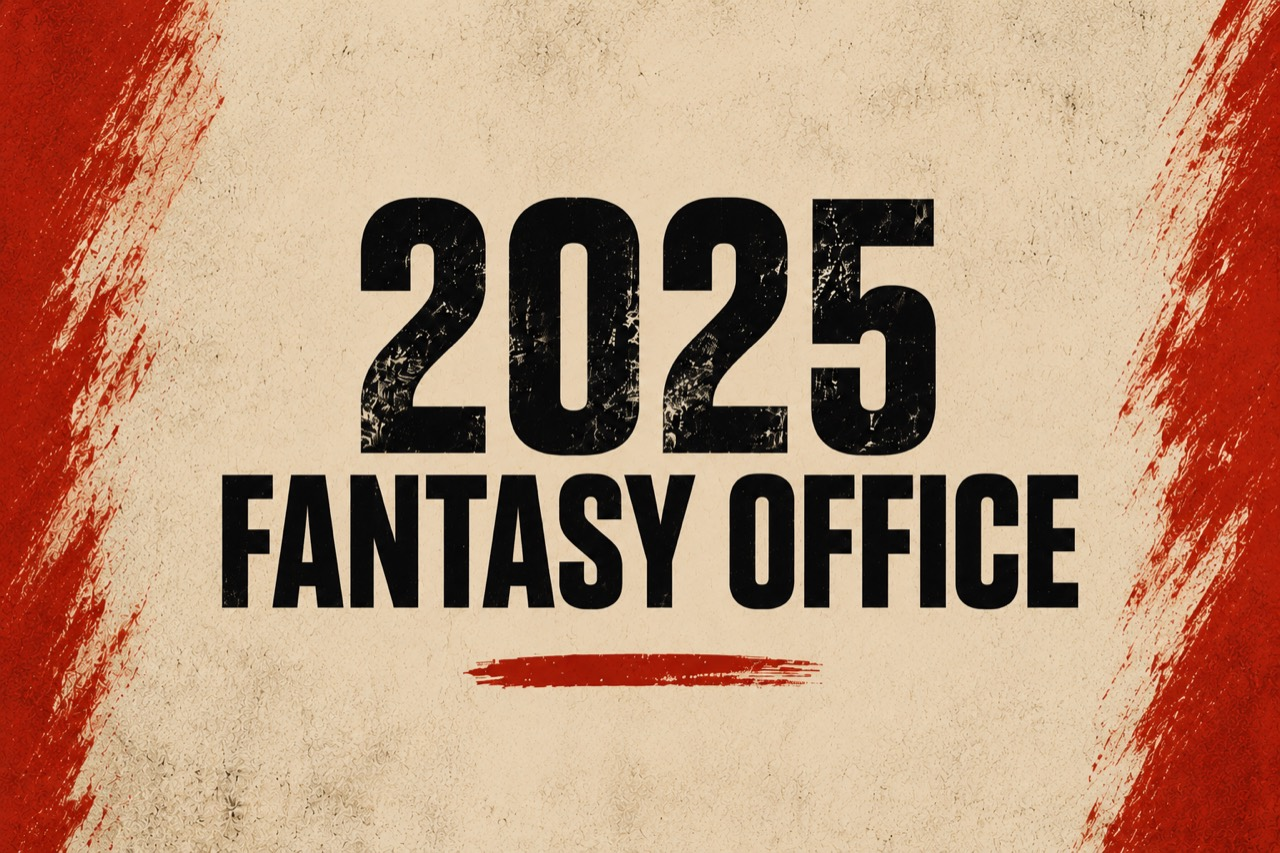
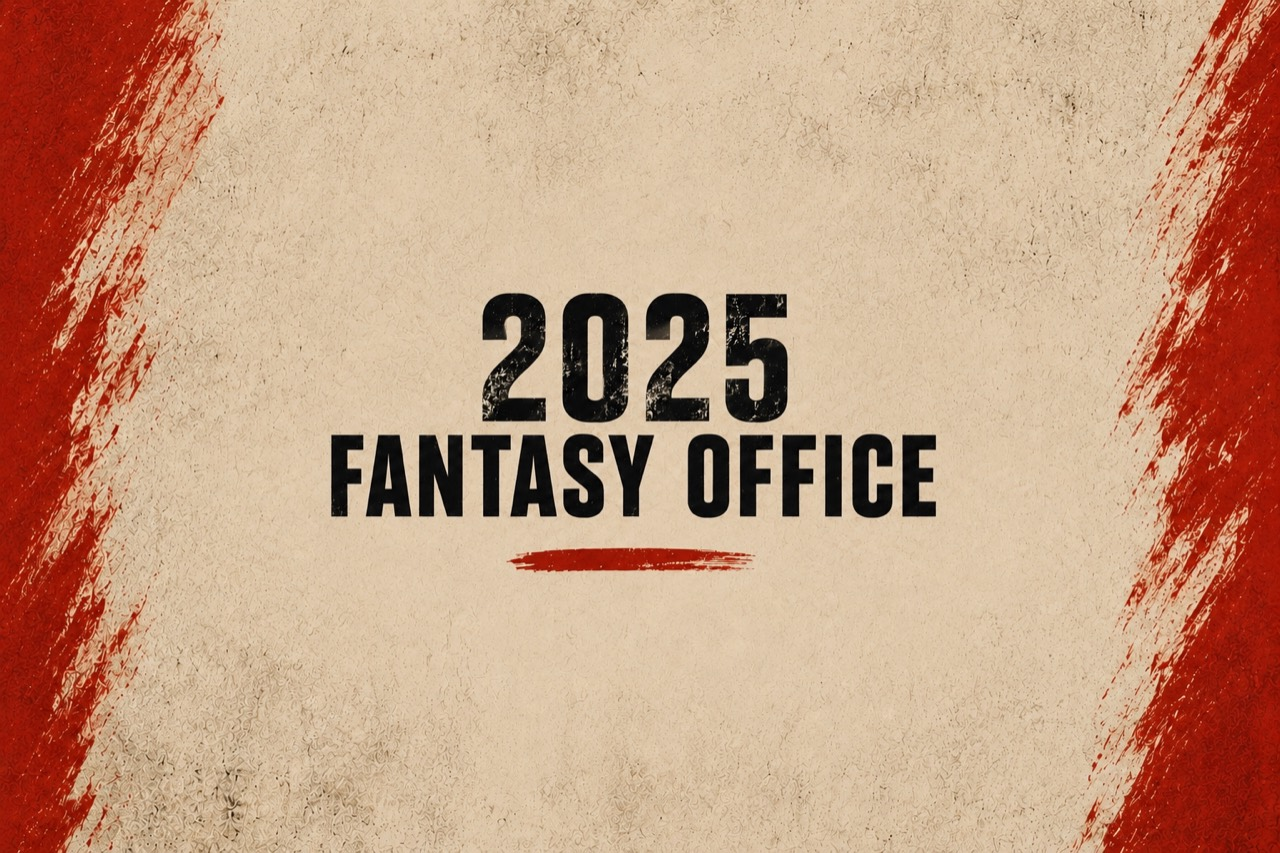
Update Fantasy Office landscape header

diff --git a/index.html b/index.html
@@ -58,7 +58,7 @@
         <div class="header-page-art" data-header-art="fantasy-office-2025" aria-hidden="true">
           <picture>
             <source
-              srcset="assets/fantasy-office-2025-header-landscape.jpg?v=202606150002"
+              srcset="assets/fantasy-office-2025-header-landscape.jpg?v=202606150003"
               media="(orientation: landscape) and (max-height: 520px)"
             >
             <img src="assets/fantasy-office-2025-header.jpg?v=202606150002" alt="">